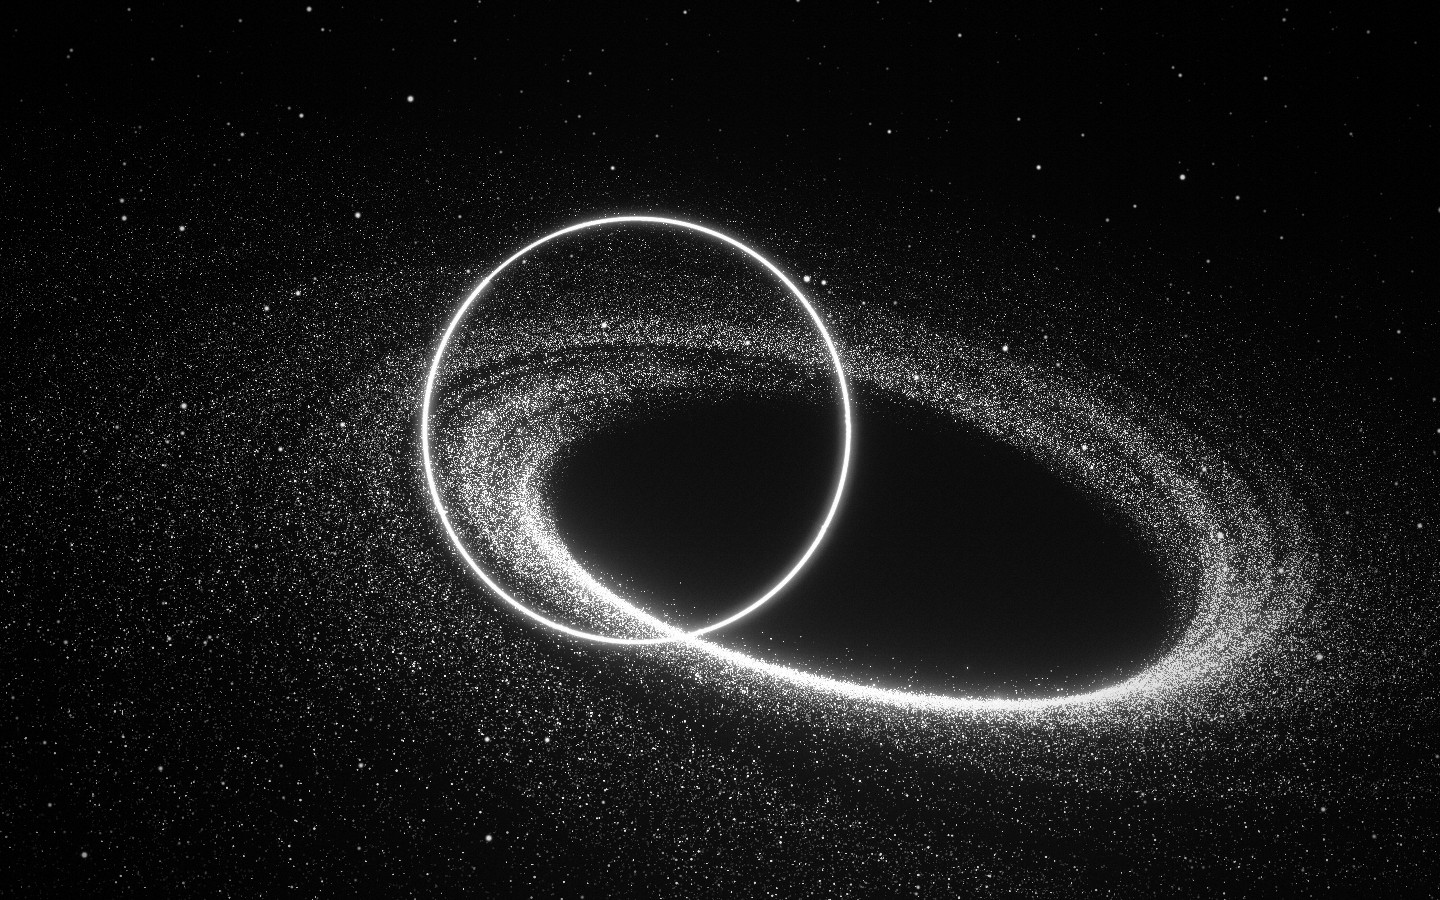
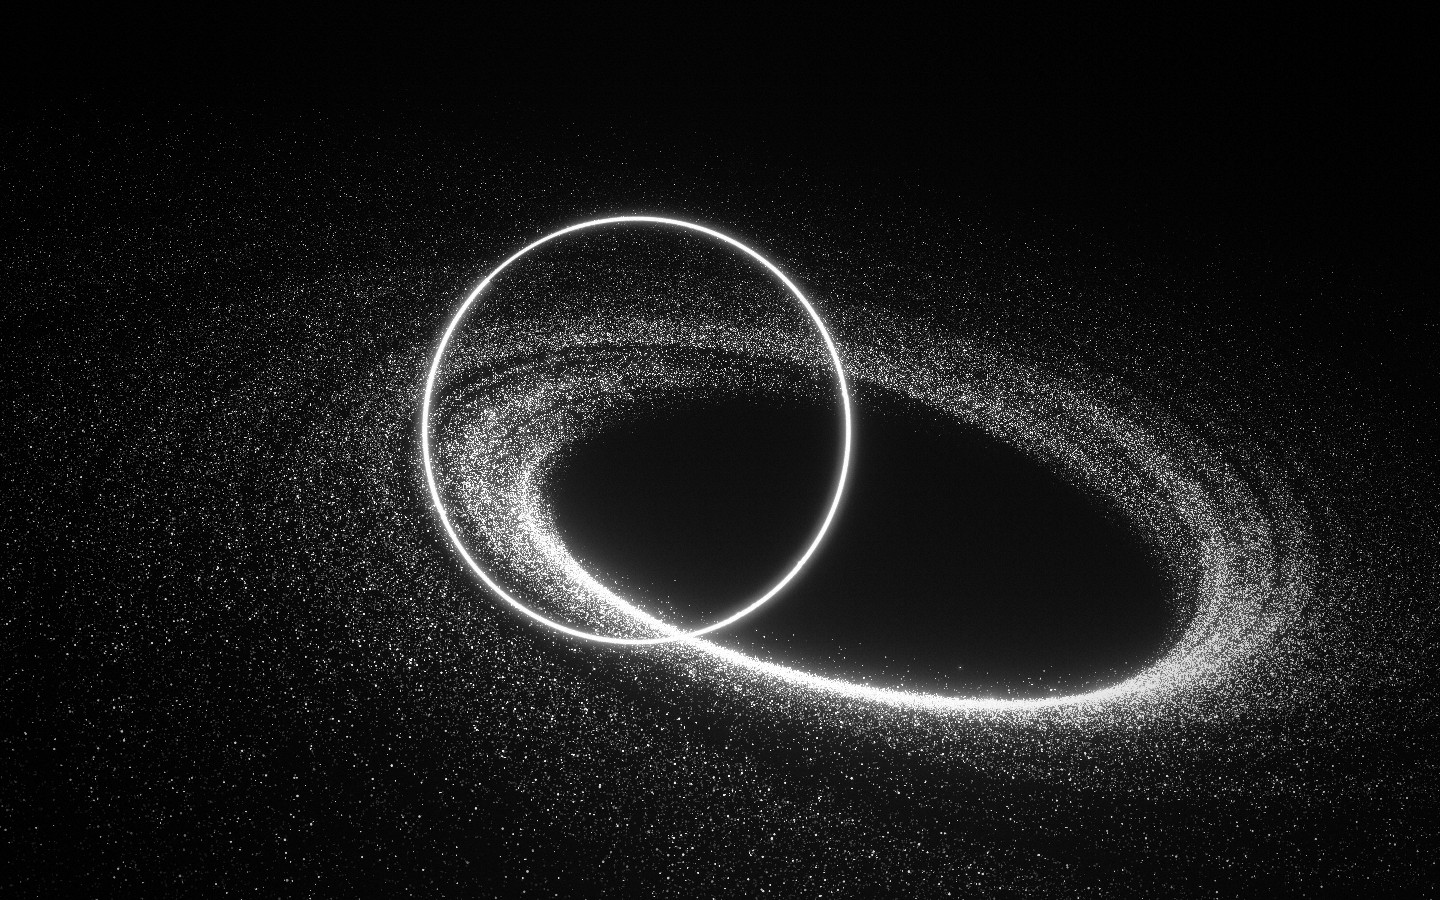
Portal: remove the background stars and haze
The frame is now pure black with only the wormhole in it. The star
field read as a stock image of space.

Claude-Session: https://claude.ai/code/session_01FgUW3BErGY7JJoFogNdhyC

diff --git a/src/portal/scene.ts b/src/portal/scene.ts
@@ -11,8 +11,6 @@ import {
 } from "postprocessing";
 import type { PortalConfig } from "./config";
 import { LensEffect, LightEffect, createFinalMaterial } from "./effects";
-import { Nebula } from "./layers/nebula";
-import { Stars } from "./layers/stars";
 import { Trail } from "./layers/trail";
 import { Wormhole } from "./layers/wormhole";
 import { judgeStroke, ringRadius } from "./recognize";
@@ -66,8 +64,6 @@ export class PortalScene {
   private scene = new Scene();
   private camera: PerspectiveCamera;
 
-  private nebula = new Nebula();
-  private stars = new Stars();
   private wormhole = new Wormhole();
   private trail = new Trail();
 
@@ -127,8 +123,6 @@ export class PortalScene {
 
     this.camera = new PerspectiveCamera(config.camera.fov, 1, 0.5, 600);
     this.scene.add(
-      this.nebula.backdrop,
-      this.stars.points,
       this.wormhole.group,
       this.trail.ribbon,
       this.trail.head,
@@ -161,8 +155,6 @@ export class PortalScene {
     this.camera.fov = config.camera.fov;
     this.camera.updateProjectionMatrix();
 
-    this.nebula.apply(config);
-    this.stars.apply(config);
     this.wormhole.apply(config, window.matchMedia("(pointer: coarse)").matches);
     this.trail.apply(config);
 
@@ -326,11 +318,6 @@ export class PortalScene {
       Math.sin(t * 0.19) * c.breathe - fx.push * ignition.cameraPush * this.config.wormhole.depth,
     );
 
-    // The haze is at infinity: it follows the turn of the camera, not its slide.
-    const perHeight = 2 * Math.tan((this.camera.fov * Math.PI) / 360);
-    this.nebula.render(this.renderer, t, Math.tan(yaw) / perHeight, Math.tan(pitch) / perHeight);
-
-    this.stars.update(t, fx.stars);
     // The pull of the ring speeds the whole disc up.
     const hole = this.config.wormhole;
     this.wormhole.update(dt * this.motion, dt, hole.flow * (1 + (fx.pull + fx.warp * 2) * hole.pullBoost), fx.stars);
@@ -398,8 +385,6 @@ export class PortalScene {
     this.camera.aspect = width / height;
     this.camera.updateProjectionMatrix();
 
-    this.nebula.resize(width * dpr, height * dpr);
-    this.stars.resize(height, dpr);
     this.trail.resize(width, height, dpr);
     this.glow.setBufferSize(Math.floor(width * dpr), Math.floor(height * dpr));
     this.final.uniforms.uAspect.value = width / height;
@@ -415,8 +400,6 @@ export class PortalScene {
     document.removeEventListener("visibilitychange", this.onVisibility);
     this.timeline?.kill();
     this.failTween?.kill();
-    this.nebula.dispose();
-    this.stars.dispose();
     this.wormhole.dispose();
     this.trail.dispose();
     this.final.dispose();

diff --git a/src/components/portal/portal-entry.tsx b/src/components/portal/portal-entry.tsx
@@ -184,7 +184,7 @@ export function PortalEntry() {
           )}
           <canvas
             ref={canvasRef}
-            aria-label="Open space in black and white. White grains turn slowly around a dark hole and fall into it. Draw a circle to open the site, or press Enter."
+            aria-label="A black screen with a wormhole: white grains turn slowly around a dark hole and fall into it. Draw a circle to open the site, or press Enter."
             className="portal-canvas absolute inset-0 size-full touch-none"
             data-ready={ready || undefined}
           />

diff --git a/src/portal/config.ts b/src/portal/config.ts
@@ -8,18 +8,9 @@
  */
 export const portalConfig = {
   space: {
-    // Black and white. Colour only arrives with the ring.
-    deep: "#010101",
-    lift: "#050505",
-    nebulaIndigo: "#3a3a3a",
-    nebulaMarigold: "#2a2a2a",
-    nebulaCoral: "#2a2a2a",
-    nebulaStrength: 0.08,
-  },
-  stars: {
-    // Stars in a 16:9 view.
-    count: 4200,
-    twinkle: 0.35,
+    // Pure black. There is nothing in the frame but the wormhole.
+    deep: "#000000",
+    lift: "#000000",
   },
   wormhole: {
     // Points in the cloud. Phones use about a third.

diff --git a/src/portal/layers/wormhole.ts b/src/portal/layers/wormhole.ts
@@ -138,7 +138,7 @@ export class Wormhole {
     this.points.renderOrder = 2;
     this.points.visible = false;
 
-    // Black walls and a black floor for the throat. They draw first and hide the stars behind the hole.
+    // Black walls and a black floor for the throat, so the far side of the sheet does not show through the hole.
     this.throat = new Mesh(new BufferGeometry(), this.black);
     this.floor = new Mesh(new CircleGeometry(1, 64), this.black);
     this.floor.rotation.x = -Math.PI / 2;

diff --git a/CLAUDE.md b/CLAUDE.md
@@ -61,12 +61,13 @@ The first screen is a WebGL entry ritual: draw a circle, it becomes a ring of li
 - The storyboard frames still show the older bone planet and the corner labels. The build is the reference now.
 - New direction from Vedant (replaces the planets and the coloured haze): the space is fully black and white, a wormhole falling into a black hole (`src/portal/layers/wormhole.ts`). No colour anywhere until the ring ignites. Ignition and opening are slower (1.2 s and 2.1 s).
 - How the wormhole must be made: as a dense point cloud, the way Shopify Editions Spring '26 builds its hero. About a million tiny points of nearly equal brightness; the picture comes from how many land in each place. Vedant rejected two earlier versions as not realistic: sparse bright dots on a flat disc, and anything that fakes grain on a surface. His references are monochrome particle fields around a dark void; match the feel, do not copy any one image.
+- Vedant had the background stars and haze removed: the frame is pure black with only the wormhole. He took them for a stock image of space.
 - Shader rules learned the hard way (the scene drew only a strip on Vedant's Mac while looking fine in headless Chromium): never call `pow()` with a base that can be negative, square by multiplying; never call `smoothstep()` with its edges reversed, write `1. - smoothstep(low, high, x)`. Both are undefined in GLSL, pass in software rendering, and produce invalid pixels on real GPUs that the bloom then smears across the frame. Headless checks cannot catch this class of bug.
 - Smoothness is a requirement, measured against Shopify Editions: the point cloud is built once in a Web Worker (`wormhole-cloud.ts`) and fades in, and `adapt()` in `scene.ts` draws a smaller share of it when frames run long.
 - This session's environment is named Portfolio-26- and allows shopify.com. Other reference sites are still blocked.
 - Milestones 2 to 4 are built as one prototype: light trail, circle check (`src/portal/recognize.ts`, tested with `pnpm test`), snap, ring, lensing, and the opening on one GSAP timeline (`src/portal/ritual.ts`). The page shows through a hole cut by the final pass in `src/portal/effects.ts`. Not yet reviewed by Vedant on a real device.
 - Still to do: sound (on hold), Blender assets, quality tiers, returning visitors, no-WebGL fallback, real device testing, timing polish with Vedant.
-- Milestone 1 (space look-dev) is built: `src/portal/layers/` holds nebula, stars, wormhole and trail, `src/portal/film.ts` the grain and vignette. Shader colours are authored in display space and converted with `toLinear()`.
+- Milestone 1 (space look-dev) is built: `src/portal/layers/` holds the wormhole and the trail, `src/portal/film.ts` the grain and vignette. Shader colours are authored in display space and converted with `toLinear()`.
 - If styles look stale after a dev server restart, delete `.next` and start it again.
 - Milestone 0 (setup) is built. Code lives in `src/portal/` and `src/components/portal/`. Every tunable goes in `src/portal/config.ts`; the `?debug` panel is generated from it.
 - Check a milestone with `pnpm portal:shots <label>` against a running dev server. Headless FPS is software rendered, so it is a smoke test only.

diff --git a/README.md b/README.md
@@ -22,7 +22,7 @@ The home page opens on a black and white wormhole, rendered in WebGL above a pla
 - `src/portal/scene.ts` is the scene class (`enter`, `update`, `resize`, `teardown`) and runs the ritual.
 - `src/portal/ritual.ts` is the master timeline, from the loop closing to the site.
 - `src/portal/recognize.ts` decides whether a stroke is a circle. `pnpm test` runs its tests.
-- `src/portal/layers/` holds one file per thing in the scene: nebula, stars, wormhole, trail.
+- `src/portal/layers/` holds one file per thing in the scene: the wormhole and the trail.
 - `src/portal/effects.ts` holds the screen space pieces: the lens, the ring and its light, and the final pass that cuts the hole.
 - `src/components/portal/portal-entry.tsx` mounts the canvas, feeds it the pointer and loads the scene on demand.
 
